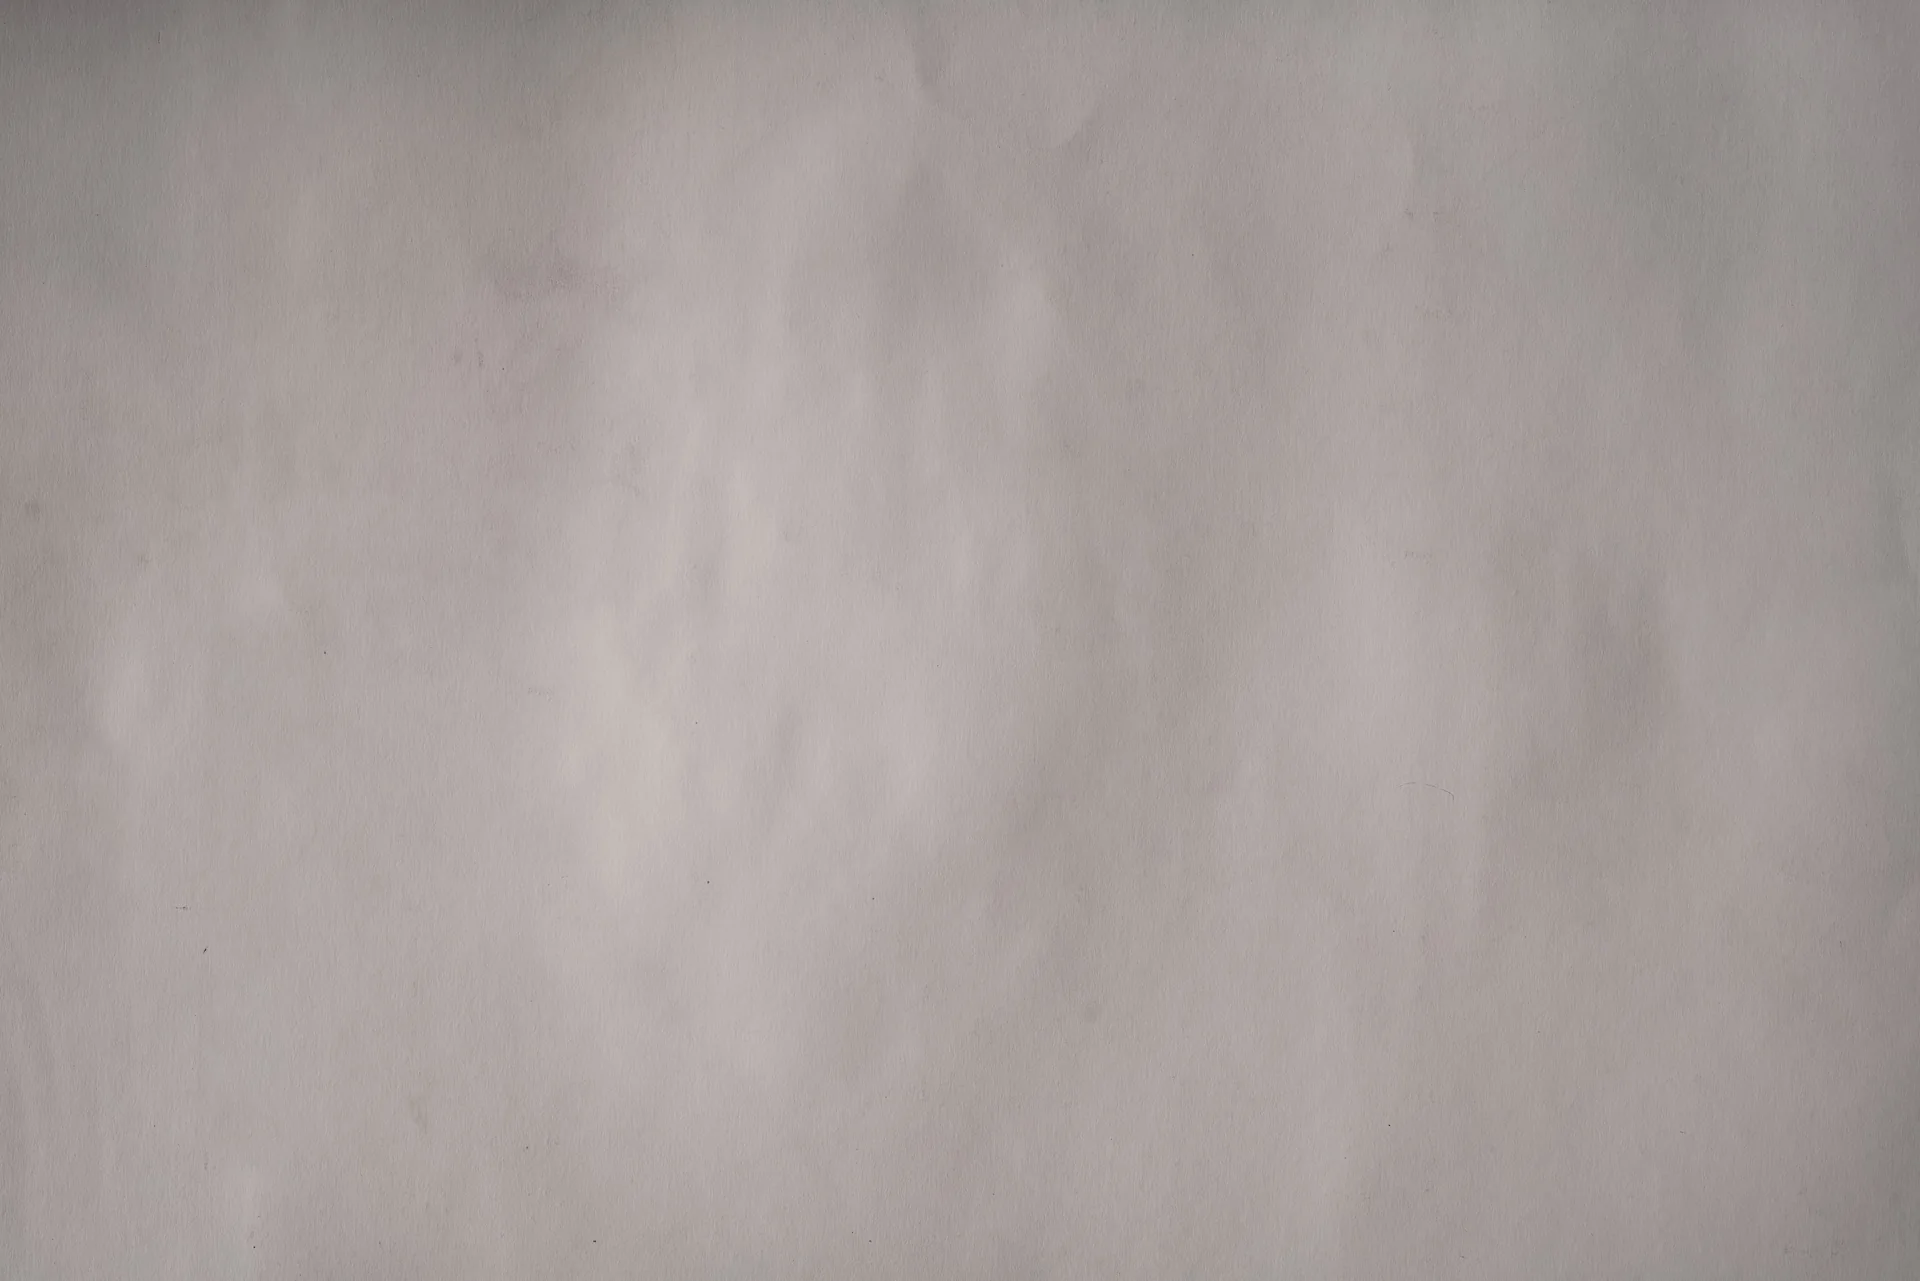
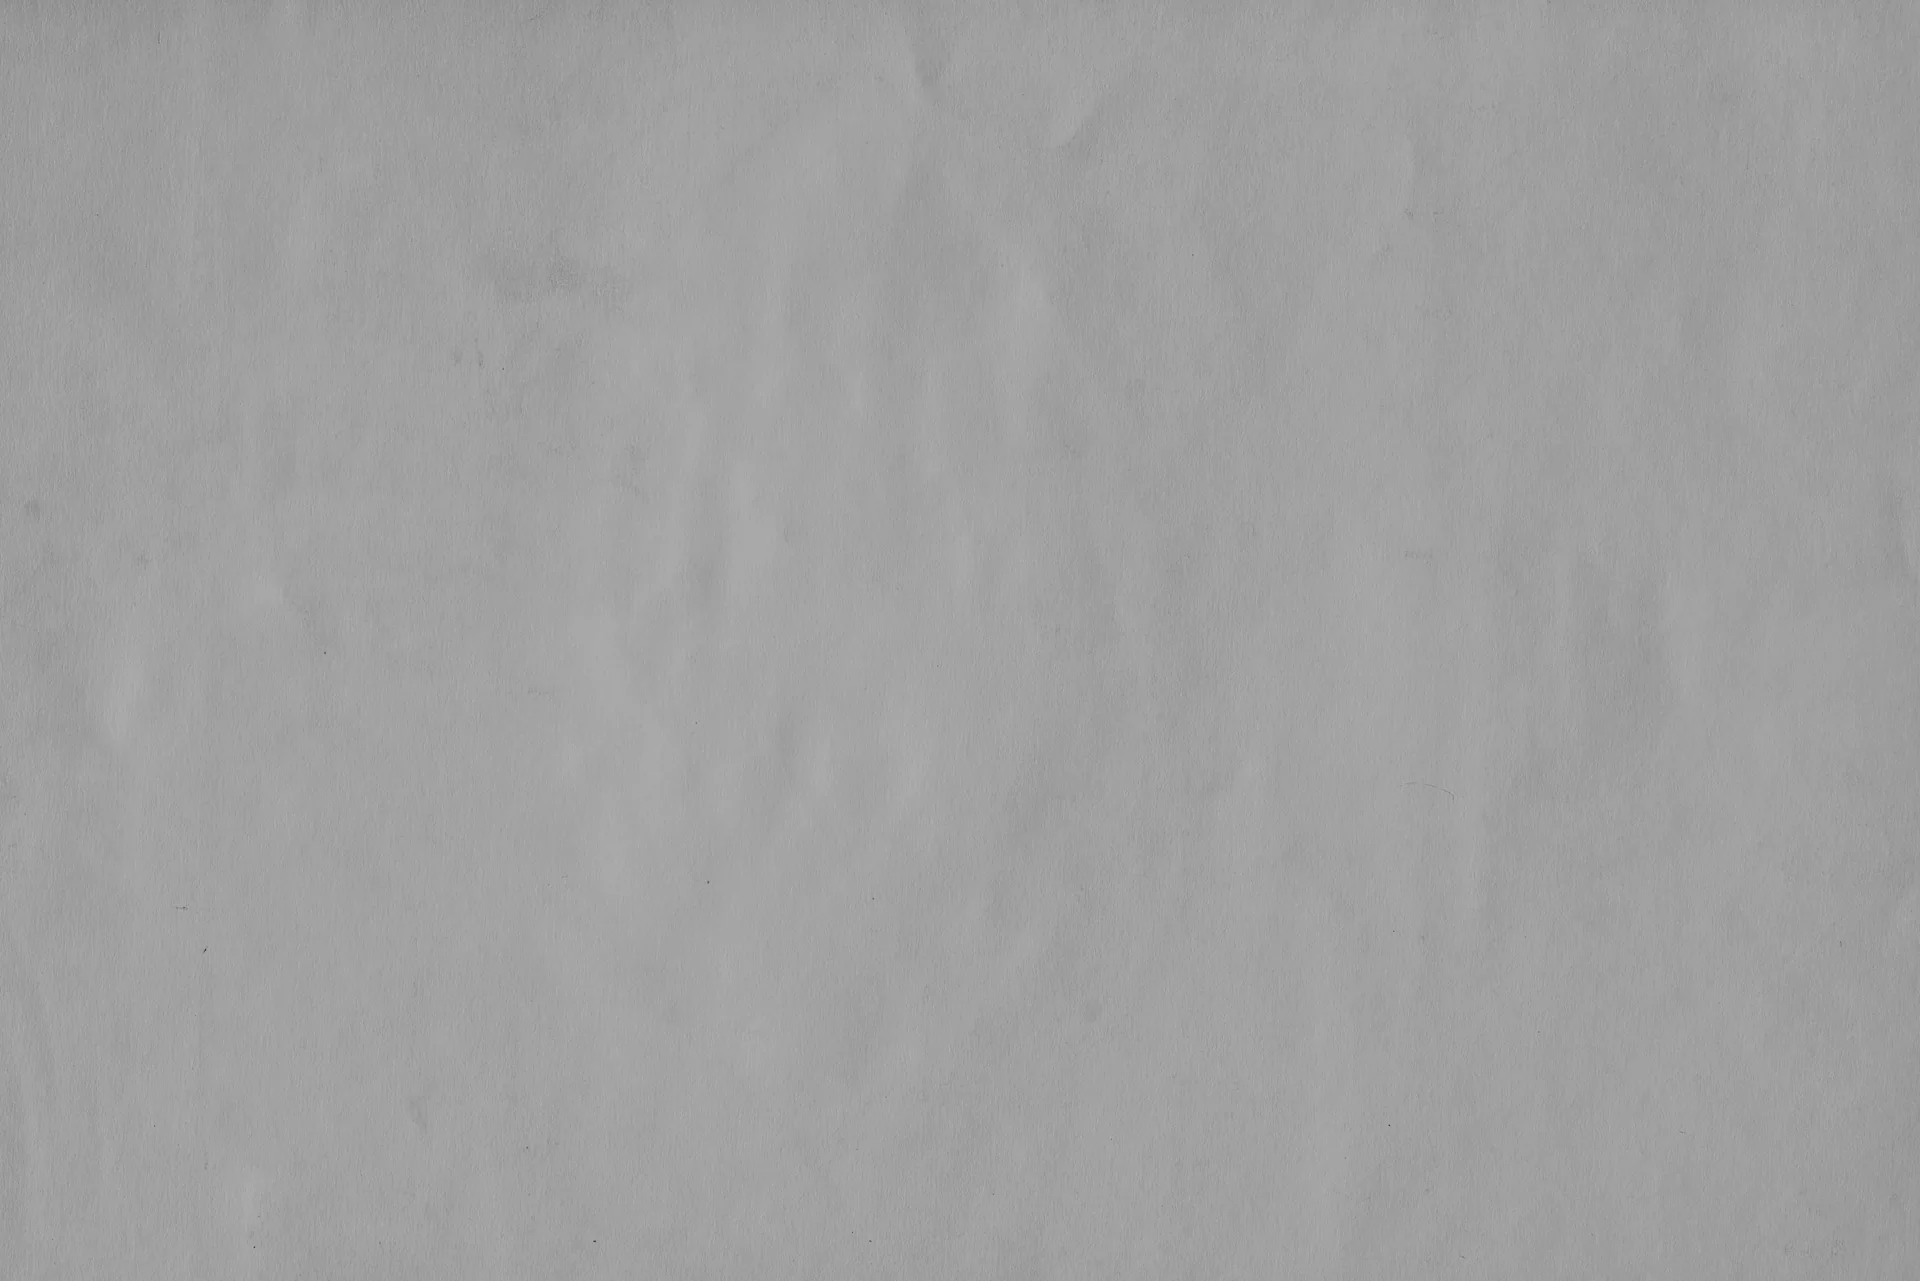
Finish the design pass and fix Safari image blending
Mobile Safari composites the fixed paper sheet on its own layer and only
multiply-blends content that is also layered, so white-backed project
images showed as white boxes. Give content images their own layer.

Also set code in DM Mono on a faint tint, lift the intro to the optical
center with looser headline spacing, tuck the phone menu ribbon away
while scrolling down, center the posts archive like a post page, and
flatten the paper texture's large blotches while keeping its grain.
Remove the temporary overflow debug overlay.

Changed region(s): [[0.2812, 0.3435, 0.4375, 0.7182], [0.0, 0.0, 0.3125, 0.1874], [0.9375, 0.8743, 1.0, 1.0]]

diff --git a/src/styles/global.css b/src/styles/global.css
@@ -4,8 +4,6 @@
    color (muted text, rules) derives from --foreground. */
 :root {
   --background: #f4f1e9;
-  /* Slightly lighter than the paper, for code. */
-  --paper-light: oklch(0.975 0.006 85);
   /* Texturelabs Paper 373. Keep its grain below the ink, with quiet tonal variation. */
   --paper-texture: image-set(
     url('../assets/paper-1920.webp') 1x,
@@ -57,6 +55,8 @@
     text-wrap: balance;
   }
   p, li, figcaption, blockquote { text-wrap: pretty; }
+  /* DM Mono is the monospace companion to DM Sans. */
+  code, kbd, samp, pre { font-family: 'DM Mono', ui-monospace, SFMono-Regular, Menlo, monospace; }
   a:focus-visible, summary:focus-visible {
     outline: 2px solid var(--foreground);
     outline-offset: 5px;
@@ -165,6 +165,9 @@
 
   /* Text and images print onto the paper: white areas take on its tone and grain. */
   :is(main, #hero) :is(h1, h2, h3, p, img) { mix-blend-mode: var(--ink-blend); }
+  /* Safari draws the fixed paper sheet on its own layer and only blends content that is
+     also on a layer, so images (where the blend is visible) get one of their own. */
+  :is(main, #hero) img { transform: translateZ(0); }
   @supports (background-clip: text) or (-webkit-background-clip: text) {
     .ink-heading {
       --ink-wash: color-mix(in srgb, var(--foreground) var(--ink-coverage), transparent);

diff --git a/memory-bank/activeContext.md b/memory-bank/activeContext.md
@@ -63,7 +63,17 @@ September 22, 2026 design sweep (goal: warm printed page, elegant and crisp, not
 
 Third pass: project titles are now sentence case with no trailing periods, and every description line ends in punctuation. Spelling is fixed, stray `</li>` and unclosed `<a>` tags are repaired, and "Phewas-ME" is now "PheWAS-ME". The Positron entry is still the only one with a category and caption. Separators are `·` everywhere, page titles use " — ", the CV and Resume link rows line up, and `global.css` defines `.sr-only` so the Markdown "Footnotes" label is hidden. Footnotes are small and muted below a short rule, and post lists have their markers back (Tailwind preflight removes them).
 
-Still open from the sweep: quieter code styling, optical centering of the intro, ribbon overlap on phones, the favicon, social meta tags, post copy typos, and dead code (Skills, Card, SectionDivider, `ui/*`, WebGL; the Tailwind utilities are unused apart from preflight).
+September 24, 2026, final design pass:
+- **Safari image blending:** Mobile Safari didn't multiply-blend images against the fixed paper layer, so white-backed images such as the DataDrivenCV logo showed as white boxes. Giving content images their own compositing layer (`transform: translateZ(0)`) fixes it. Checked in the iOS Simulator: 18.9% of the page area was pure white before the fix and 0% after.
+- **Code:** set in DM Mono (loaded with the other Google Fonts) on a faint ink tint, 7% for inline code and 5% for blocks, with no border. `--paper-light` is gone.
+- **Intro:** extra bottom padding of `8vh` lifts it to the optical center, and the headline's letter spacing went from -0.04em to -0.025em.
+- **Ribbon:** the phone menu ribbon slides up out of view while scrolling down (past 120px) and returns on any scroll up. Motion is disabled for reduced-motion users.
+- **Posts page:** `/posts/` uses the same centered 45rem column as post pages.
+- **Paper texture:** `scripts/prepare-paper-texture.mjs` now divides the photo by a heavily blurred copy, keeping 20% of the large-scale variation. Blotches and dark edges drop by about 4–5×, and the fine grain is kept.
+
+Horizontal scroll on the user's phone: not reproduced in Chrome emulation (240–430px) or in Safari in the iOS Simulator. Waiting on the page, browser, and text-size details from the user.
+
+Still open (content and cleanup): project categories and captions beyond Positron, post copy typos, the AI note that lists Codex while saying no AI was used, "tech lead" in constants vs "principal software engineer" in the intro, the favicon, social meta tags, and dead code (Skills, Card, SectionDivider, `ui/*`, WebGL, React; the Tailwind utilities are unused apart from preflight).
 
 The user prefers sentence-case labels and understated print cues. They dislike all-caps text and literal publication conventions such as "Fig. 01"; favor typography, spacing, alignment, and fine rules over decorative numbering.
 
